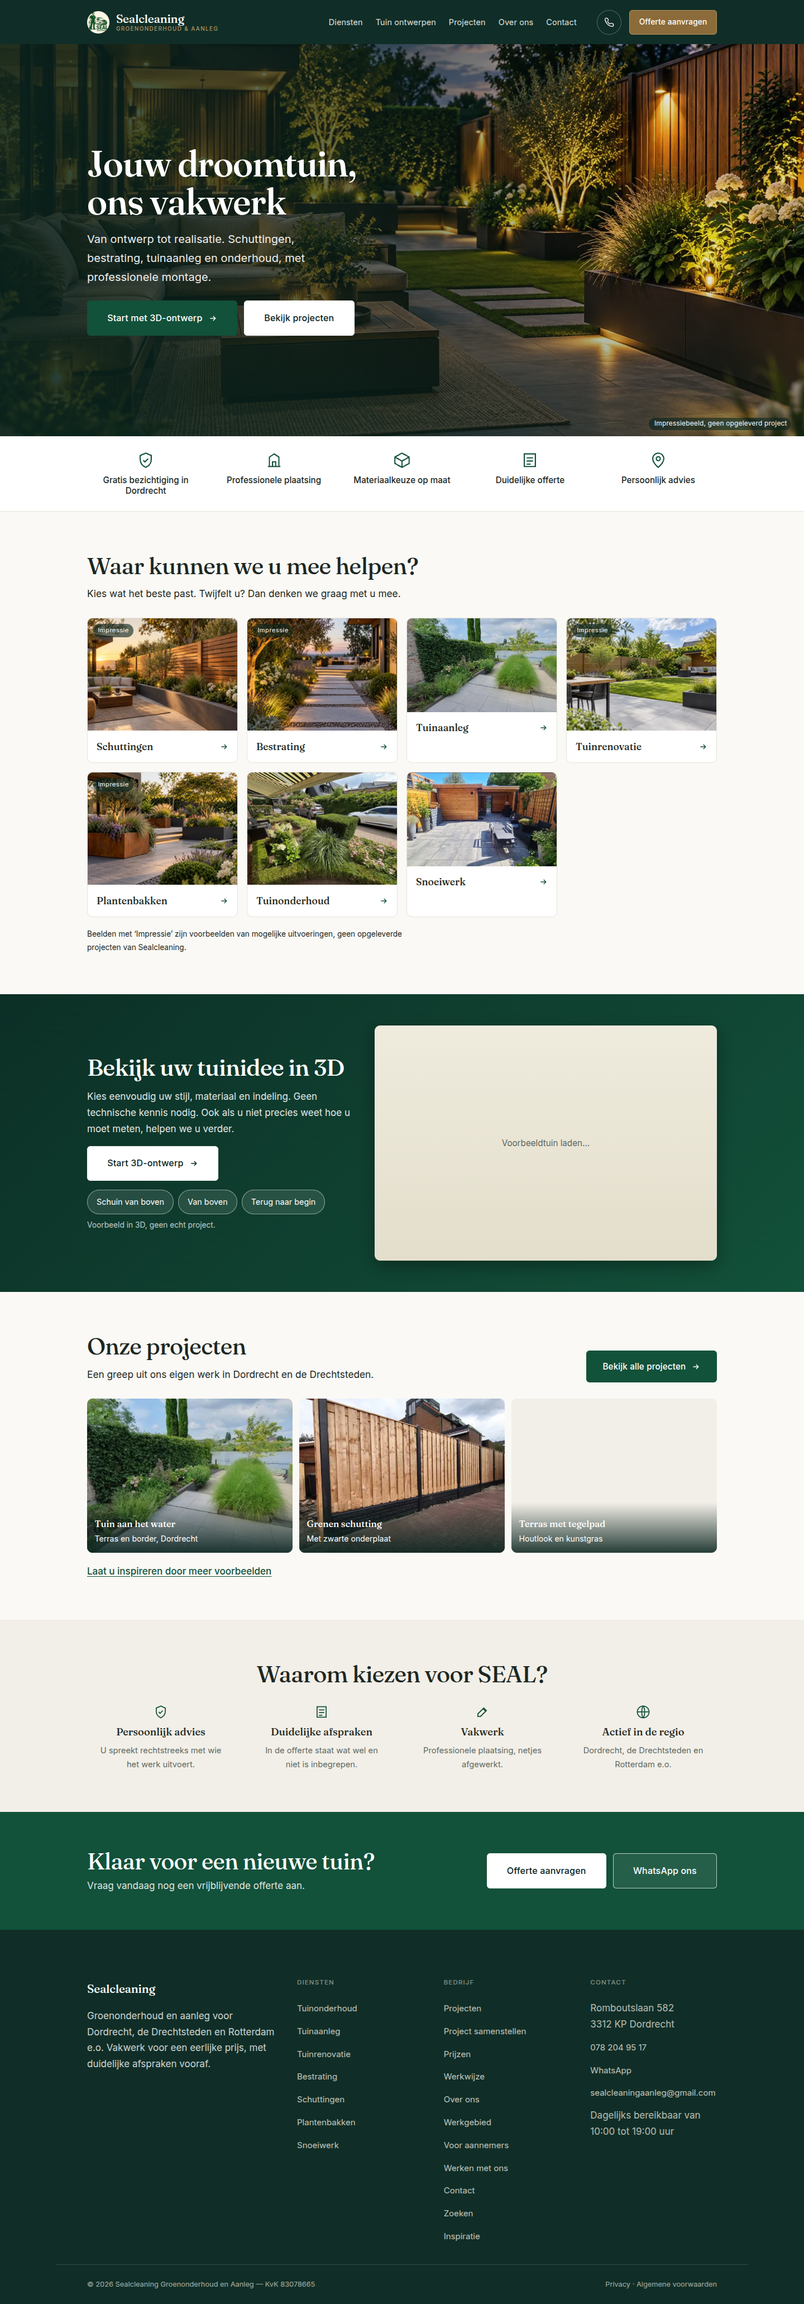
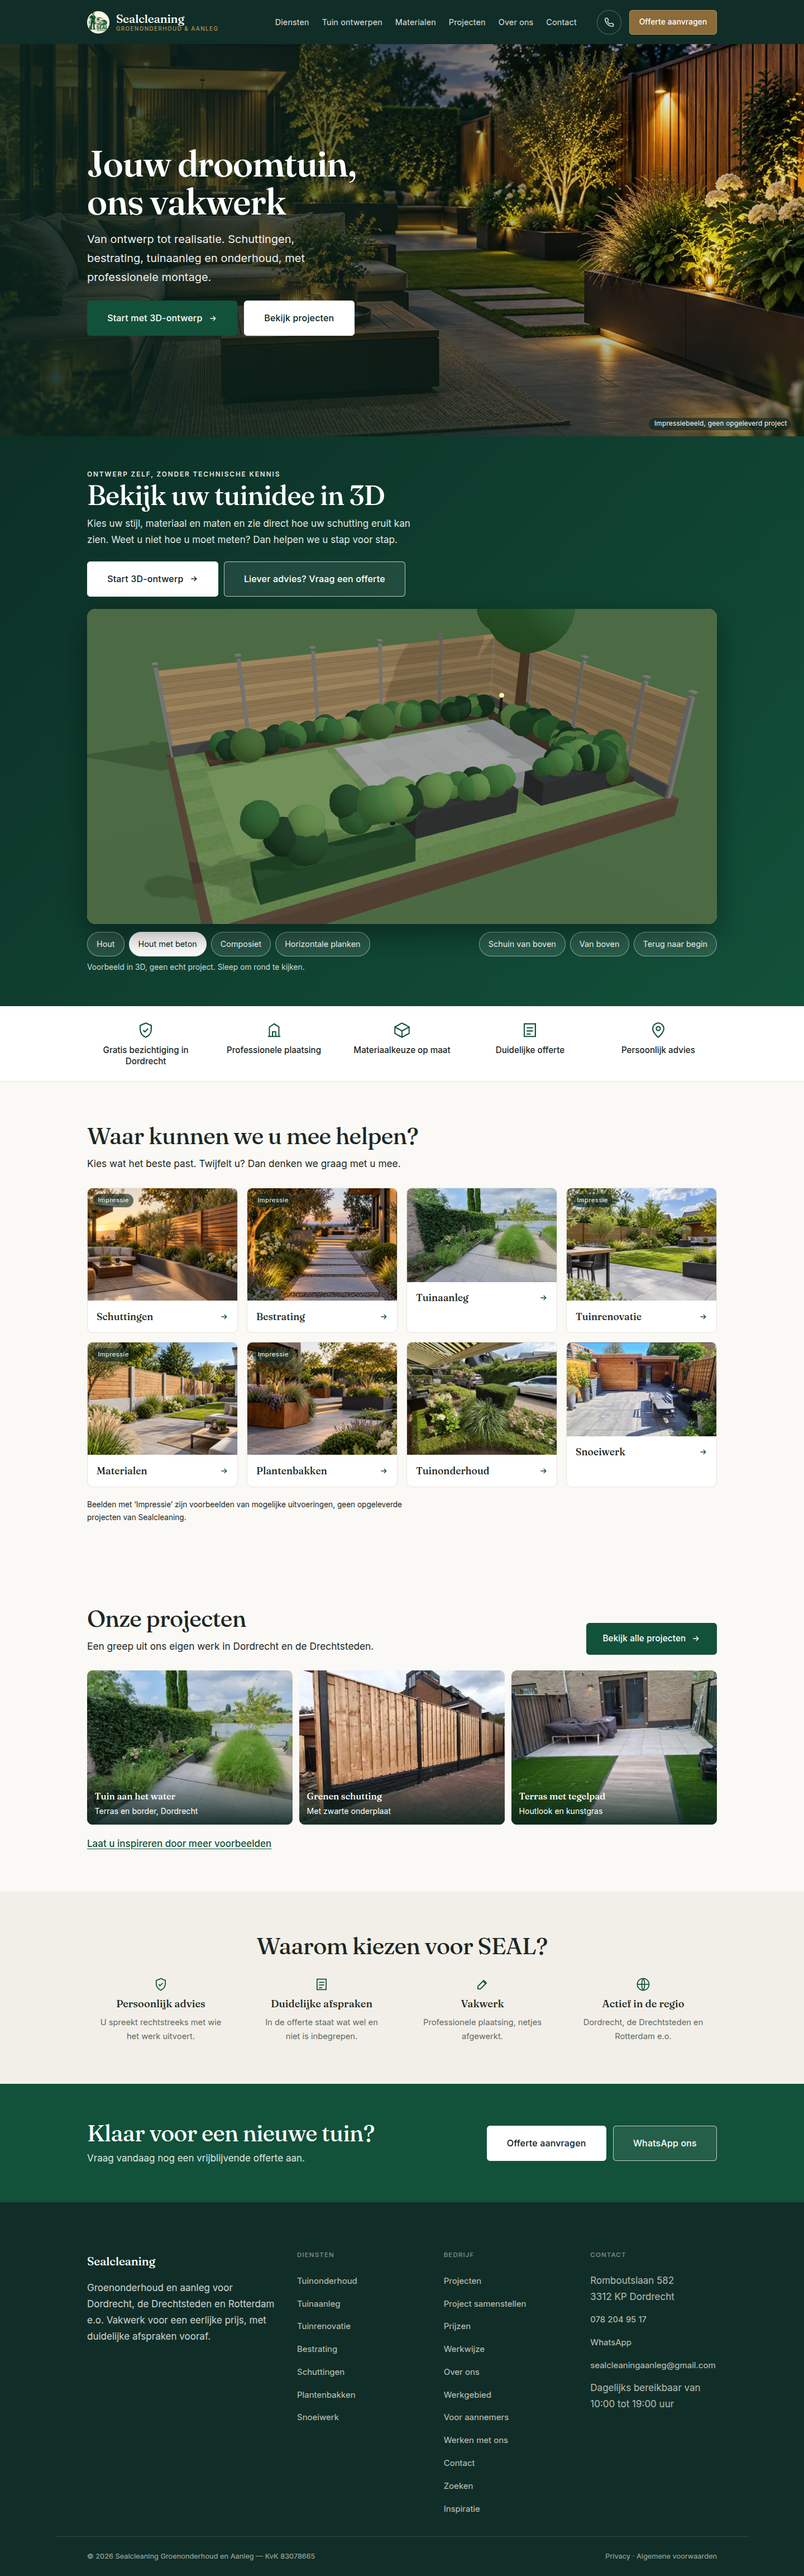
V13 ronde 2: pilotbeelden (referentie | desktop | mobiel), oplevering bijgewerkt
Claude-Session: https://claude.ai/code/session_01G4kPMSFPp2GYjgRancjYe5

diff --git a/docs/V13_OPLEVERING.md b/docs/V13_OPLEVERING.md
@@ -1,5 +1,9 @@
 # V13 oplevering: pilotpagina's (wacht op ontwerpgoedkeuring)
 
+> **Ronde 2 (na beoordeling eigenaar):** pilot niet goedgekeurd. Correcties: materialen, productpagina's en winkelmand hersteld uit de bestaande code (SEAL verkoopt los én met montage; checkout/betalingen staan uit, catalogus toont 'offerte aanvragen'); 3D-sectie direct onder de hero en groot (posterbeeld uit de echte scène, materiaalknoppen); realistischere 3D (planken/lamellen met naden en nerf, zwart composiet, betonpalen bij hout-beton, paalkappen, gazon met strepen); snelle invoerbalk (type, lengte, hoogte) onder de 3D met informatieknoppen en uitleg bij begrippen; compactere kop zodat de 3D boven de vouw staat; schuttingenpagina met uitlegblokken in accordeons. Nieuw: `tests/e2e/ontwerper-sync.mjs` (3D verandert + aanvraagtekst volgt). Beelden: `docs/v13/compare/PILOT-1/2/3-*.png` (referentie | desktop | mobiel).
+
+*(Tekst hieronder is van ronde 1; de webshop-verwijdering daarin is ingetrokken.)*
+
 Herstelpunt vóór V13: commit `596d242` (branch `claude/sealcleaning-website-overhaul-gvgtfj`). Terugdraaien: `git revert` van de V13-commits of een nieuwe branch vanaf 596d242. Productie (sealcleaning.nl), DNS, hosting en betalingen zijn niet aangeraakt.
 
 ## Referentiebesluit
